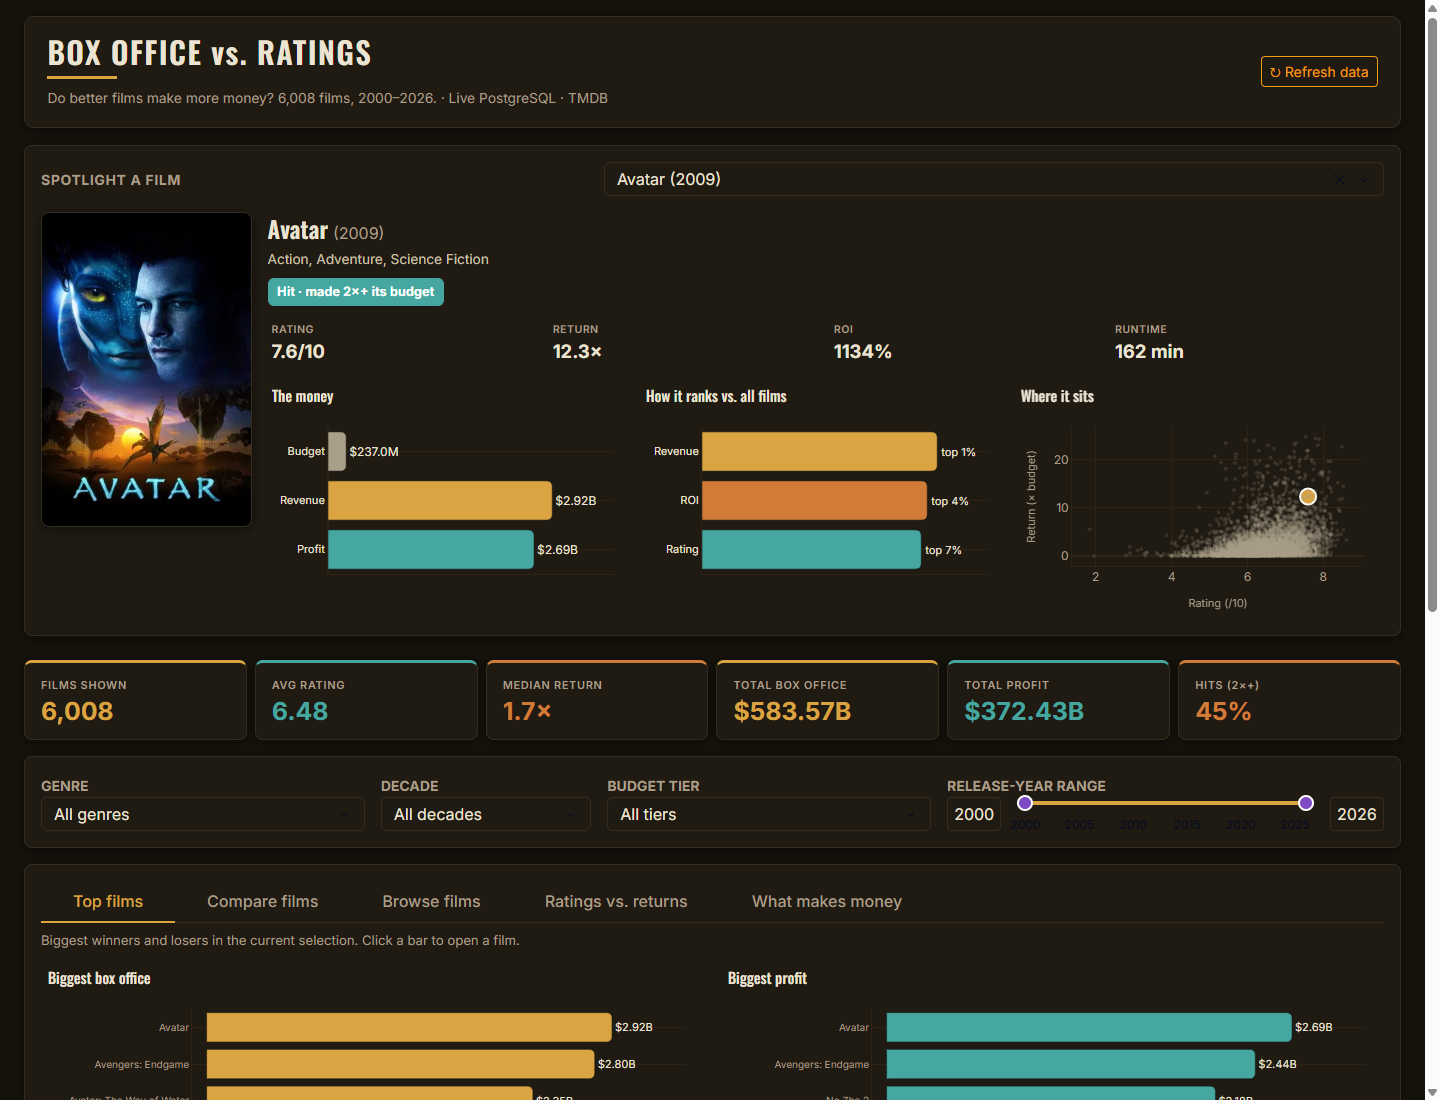
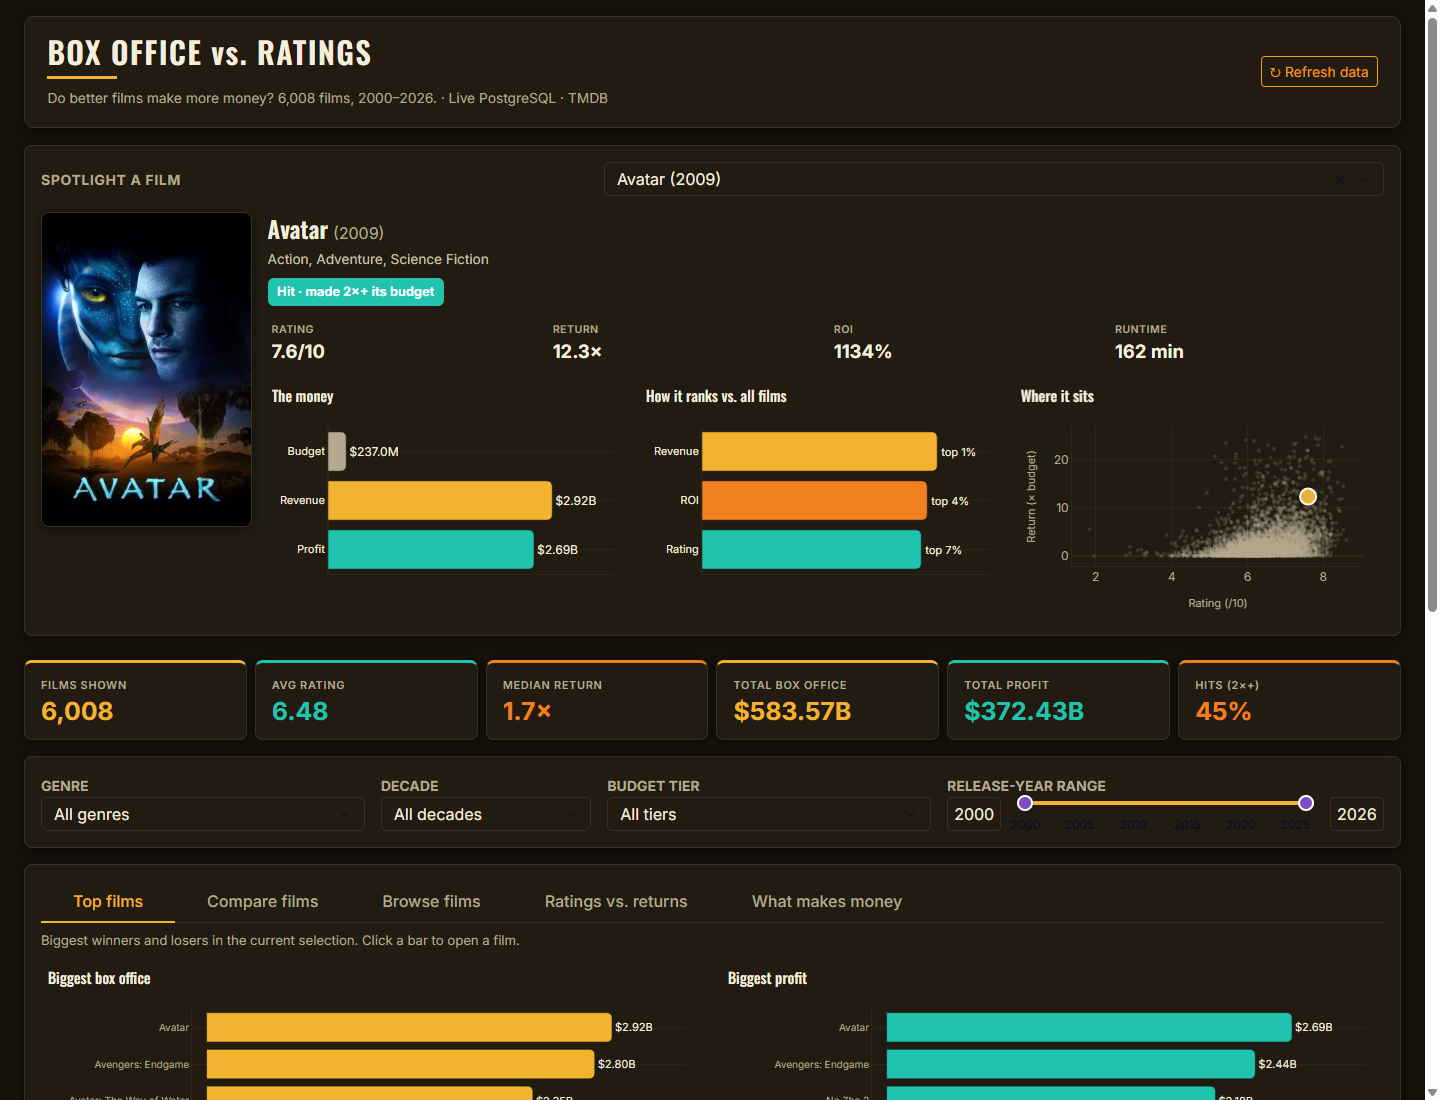
Punchier cinema colours + remove the Browse filter row
Spencer: "it still has filter underneath it" + "the colors are still really
bland and muted" + scan for functionality/viewer-value.

- Removed the Browse table's native per-column filter row entirely (the "filter"
  boxes + the "Aa" toggle). It was redundant — the global genre/decade/tier/year
  filters already narrow the table, and the search box up top finds films by
  name. Dropped filter_action, filter_options, style_filter, and the dead filter
  CSS; updated the caption.
- Boosted the whole palette from muted to vivid: brighter marquee gold, punchy
  orange, vivid teal, bold crimson, brighter cream text — they now pop against
  the dark warm canvas instead of reading washed-out. Synced the index_string CSS.
- Regenerated the four README screenshots on the vivid theme.

Self-review: clean. Verified import + update() runs, the Browse filter row is
gone (0 filter cells in the DOM), and every tab renders on the brighter palette.

diff --git a/app.py b/app.py
@@ -38,17 +38,17 @@ load_dotenv()
 
 # ---- "movie theater" palette: warm espresso canvas + the classic teal-and-orange
 # film-grading scheme (cinema gold/amber warm, teal as the complementary cool) ----
-BG = "#15120C"          # warm espresso-charcoal (a dim theater)
-PANEL = "#1F1A12"       # warm dark — cards / chart panels
-PANEL_HI = "#2A2318"    # table header, hover, raised bits
-BORDER = "#352D20"      # subtle warm border
-INK = "#ECE4D3"         # warm cream (primary text)
-MUTED = "#A99E88"       # warm grey text
-GRID = "#2B2417"        # chart gridlines
-GOLD = "#D9A441"        # marquee gold — primary (box office, hits)
-ORANGE = "#D07C38"      # warm amber — secondary (returns, ROI)
-TEAL = "#46A7A0"        # complementary cool — the teal of teal-and-orange grading
-RED = "#C24A42"         # curtain crimson — losses / flops
+BG = "#14110A"          # warm espresso-charcoal (a dim theater)
+PANEL = "#211B11"       # warm dark — cards / chart panels
+PANEL_HI = "#2D2616"    # table header, hover, raised bits
+BORDER = "#3A3122"      # subtle warm border
+INK = "#F5EEDD"         # warm cream (primary text)
+MUTED = "#B4A98E"       # warm grey text
+GRID = "#2E2718"        # chart gridlines
+GOLD = "#F2B32E"        # vivid marquee gold — primary (box office, hits)
+ORANGE = "#F0801F"      # vivid amber-orange — secondary (returns, ROI)
+TEAL = "#1FC3AE"        # vivid teal — the cool of teal-and-orange grading
+RED = "#EA4A39"         # vivid crimson — losses / flops
 ACCENT = GOLD
 PAGE_BG = BG
 SHADOW = "0 2px 10px rgba(0,0,0,0.50)"
@@ -473,7 +473,7 @@ def poster_block(row):
 
 def film_meta(row):
     perf_color = PERF_COLORS.get(row["performance"], MUTED)
-    badge_text = "#15120C" if perf_color == GOLD else "white"
+    badge_text = "#14110A" if perf_color == GOLD else "white"
     rt = f"{int(row['runtime'])} min" if pd.notna(row["runtime"]) else "—"
     return html.Div([
         html.Span(row["title"], style={"fontFamily": HEAD_FONT, "fontWeight": 600,
@@ -558,38 +558,34 @@ app.index_string = """<!DOCTYPE html>
 <link rel="preconnect" href="https://fonts.gstatic.com" crossorigin>
 <link href="https://fonts.googleapis.com/css2?family=Oswald:wght@500;600;700&family=Inter:wght@400;500;600;700&display=swap" rel="stylesheet">
 <style>
-  html, body { background:#15120C; color:#ECE4D3; }
-  ::selection { background:#D9A441; color:#15120C; }
+  html, body { background:#14110A; color:#F5EEDD; }
+  ::selection { background:#F2B32E; color:#14110A; }
   /* Dropdown (Dash 3 native) */
-  .dash-dropdown, .dash-dropdown-trigger { background:#1F1A12 !important; border-color:#352D20 !important;
-      color:#ECE4D3 !important; border-radius:6px; }
-  .dash-dropdown-value, .dash-dropdown-value-item span, .dash-dropdown-placeholder { color:#ECE4D3 !important; }
+  .dash-dropdown, .dash-dropdown-trigger { background:#211B11 !important; border-color:#3A3122 !important;
+      color:#F5EEDD !important; border-radius:6px; }
+  .dash-dropdown-value, .dash-dropdown-value-item span, .dash-dropdown-placeholder { color:#F5EEDD !important; }
   /* open menu popup */
-  .dash-dropdown-content { background:#1F1A12 !important; color:#ECE4D3 !important;
-      border:1px solid #352D20 !important; }
-  .dash-dropdown-search { background:#15120C !important; color:#ECE4D3 !important;
-      border:1px solid #352D20 !important; }
-  .dash-options-list, .dash-dropdown-options { background:#1F1A12 !important; color:#ECE4D3 !important; }
-  .dash-options-list-option, .dash-dropdown-option { color:#ECE4D3 !important; background:transparent !important; }
-  .dash-options-list-option:hover, .dash-dropdown-option:hover { background:#2A2318 !important;
-      color:#D9A441 !important; }
-  .dash-dropdown-action-button { color:#D9A441 !important; background:transparent !important; }
+  .dash-dropdown-content { background:#211B11 !important; color:#F5EEDD !important;
+      border:1px solid #3A3122 !important; }
+  .dash-dropdown-search { background:#14110A !important; color:#F5EEDD !important;
+      border:1px solid #3A3122 !important; }
+  .dash-options-list, .dash-dropdown-options { background:#211B11 !important; color:#F5EEDD !important; }
+  .dash-options-list-option, .dash-dropdown-option { color:#F5EEDD !important; background:transparent !important; }
+  .dash-options-list-option:hover, .dash-dropdown-option:hover { background:#2D2616 !important;
+      color:#F2B32E !important; }
+  .dash-dropdown-action-button { color:#F2B32E !important; background:transparent !important; }
   /* Range slider (Dash 3 native) */
-  .dash-slider-track { background:#352D20 !important; }
-  .dash-slider-range { background:#D9A441 !important; }
-  .dash-slider-handle { background:#D9A441 !important; border-color:#D9A441 !important; }
-  .dash-slider-mark-text { color:#A99E88 !important; }
-  .dash-range-slider-input { background:#1F1A12 !important; color:#ECE4D3 !important; border-color:#352D20 !important; }
+  .dash-slider-track { background:#3A3122 !important; }
+  .dash-slider-range { background:#F2B32E !important; }
+  .dash-slider-handle { background:#F2B32E !important; border-color:#F2B32E !important; }
+  .dash-slider-mark-text { color:#B4A98E !important; }
+  .dash-range-slider-input { background:#211B11 !important; color:#F5EEDD !important; border-color:#3A3122 !important; }
   /* Tabs */
-  .nav-tabs { border-bottom:1px solid #352D20 !important; }
-  .nav-tabs .nav-link { color:#A99E88 !important; border:none !important; font-weight:500; }
-  .nav-tabs .nav-link:hover { color:#ECE4D3 !important; }
-  .nav-tabs .nav-link.active { color:#D9A441 !important; background:transparent !important;
-      border-bottom:2px solid #D9A441 !important; }
-  /* Table filter inputs */
-  .dash-table-container input { color:#ECE4D3 !important; }
-  .dash-filter input::placeholder { color:#8A8068 !important; }
-  .dash-filter--case { display:none !important; }   /* hide the cryptic "Aa" case toggle */
+  .nav-tabs { border-bottom:1px solid #3A3122 !important; }
+  .nav-tabs .nav-link { color:#B4A98E !important; border:none !important; font-weight:500; }
+  .nav-tabs .nav-link:hover { color:#F5EEDD !important; }
+  .nav-tabs .nav-link.active { color:#F2B32E !important; background:transparent !important;
+      border-bottom:2px solid #F2B32E !important; }
 </style>
 </head>
 <body>{%app_entry%}<footer>{%config%}{%scripts%}{%renderer%}</footer></body>
@@ -706,12 +702,12 @@ app.layout = dbc.Container(fluid=True, className="px-4 py-3",
             ], className="g-3 mt-1 align-items-center"),
         ]),
         dbc.Tab(label="Browse films", tab_id="t-browse", children=[
-            html.P("Search any column, sort by a header, or click a row to open a film.",
+            html.P("Sorted by profit. Click any column header to re-sort, or click a row "
+                   "to open that film above. Use the filters above to narrow the list.",
                    className="mt-2 mb-2", style={"fontSize": "0.82rem", "color": MUTED}),
             dash_table.DataTable(
                 id="film-table", columns=TABLE_COLS, sort_action="native",
-                filter_action="native", page_size=12, page_action="native",
-                filter_options={"case": "insensitive", "placeholder_text": "filter…"},
+                page_size=12, page_action="native",
                 cell_selectable=True, style_as_list_view=True,
                 style_header={"backgroundColor": PANEL_HI, "color": GOLD, "fontWeight": "600",
                               "border": "none", "borderBottom": f"1px solid {BORDER}",
@@ -723,8 +719,7 @@ app.layout = dbc.Container(fluid=True, className="px-4 py-3",
                             "borderBottom": f"1px solid {BORDER}", "cursor": "pointer"},
                 style_data_conditional=[{"if": {"row_index": "odd"}, "backgroundColor": "#221C12"},
                                         {"if": {"state": "active"},
-                                         "backgroundColor": PANEL_HI, "border": f"1px solid {GOLD}"}],
-                style_filter={"backgroundColor": PANEL_HI, "color": INK}),
+                                         "backgroundColor": PANEL_HI, "border": f"1px solid {GOLD}"}]),
         ]),
         dbc.Tab(label="Ratings vs. returns", tab_id="t-rr", children=[
             html.P("The core question: does a higher audience rating mean a bigger return? "
